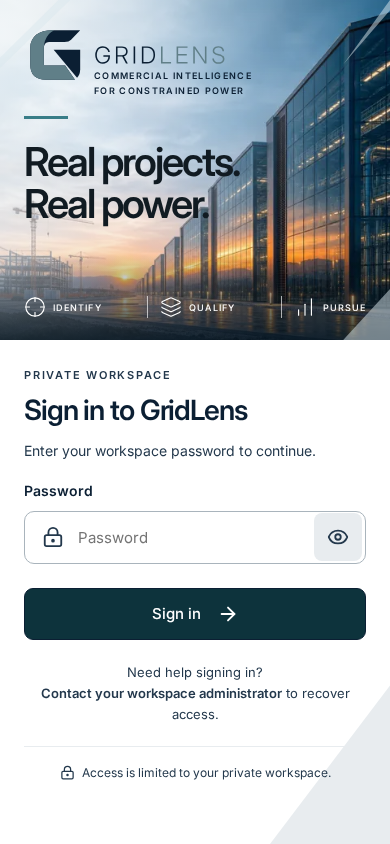
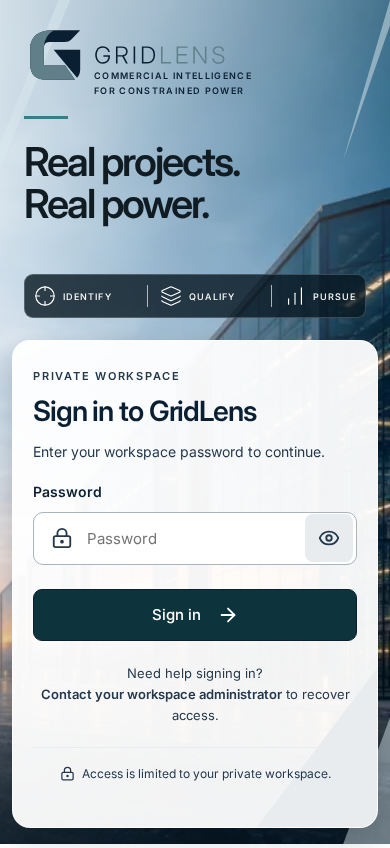
feat: extend architectural background across mobile sign-in

diff --git a/web/src/features/auth/login.css b/web/src/features/auth/login.css
@@ -38,18 +38,19 @@
 .login-page button:focus-visible,.login-page input:focus-visible{outline:3px solid var(--gl-focus);outline-offset:3px}
 @media(min-width:641px) and (max-width:1000px){.login-page{grid-template-columns:minmax(0,48fr) minmax(0,52fr)}.login-story-content{padding:48px 28px}.login-tagline{font-size:9px;letter-spacing:.13em}.login-story h2{font-size:48px}.login-stages{gap:14px;flex-direction:column}.login-stages li+li{padding-left:0;border:0}.login-panel{padding:44px 28px}}
 @media(max-width:640px){
-  .login-page{grid-template-columns:minmax(0,1fr);grid-template-rows:auto 1fr}
+  .login-page{position:relative;grid-template-columns:minmax(0,1fr);grid-template-rows:auto 1fr;padding-bottom:16px}
+  .login-story{position:static;overflow:visible}
   .login-story-content{min-height:340px;padding:24px 24px 22px}
   .login-story-logo{max-width:260px}
   .login-tagline{margin-left:70px;margin-top:-17px;font-size:9px;letter-spacing:.15em}
   .login-accent{margin:18px 0 22px;width:44px;height:3px}
   .login-story h2{font-size:40px;letter-spacing:-.05em;line-height:1.05}
-  .login-architecture img{object-position:center 65%}
-  .login-stages{padding:44px 0 0;gap:10px}
+  .login-architecture img{object-position:right 65%}
+  .login-stages{margin-top:auto;padding:10px 9px;gap:10px;border:1px solid rgba(255,255,255,.2);border-radius:9px;background:rgba(6,22,33,.8)}
   .login-stages li{gap:7px;font-size:9px;letter-spacing:.12em}
   .login-stages li+li{padding-left:12px}
   .login-stages svg{width:22px;height:22px}
-  .login-panel{align-items:flex-start;padding:28px 24px 36px}
+  .login-panel{z-index:2;align-items:flex-start;margin:0 12px;padding:28px 20px 30px;border:1px solid rgba(255,255,255,.75);border-radius:18px;background:rgba(255,255,255,.95);box-shadow:0 12px 32px rgba(6,22,33,.18)}
   .login-panel-inner{gap:12px}
   .login-panel h1{font-size:28px}
   .login-form{margin-top:8px}
@@ -62,11 +63,11 @@
   .login-story-logo{max-width:240px}
   .login-tagline{margin-left:65px;font-size:8px}
   .login-story h2{font-size:36px}
-  .login-stages{gap:6px;padding-top:34px}
+  .login-stages{gap:6px;padding:10px 7px}
   .login-stages li{font-size:8px;gap:5px}
   .login-stages li+li{padding-left:8px}
   .login-stages svg{width:20px;height:20px}
-  .login-panel{padding-left:20px;padding-right:20px}
+  .login-panel{padding-left:16px;padding-right:16px}
 }
 
 .login-input-wrap:focus-within{outline:3px solid var(--gl-focus);outline-offset:3px}

diff --git a/docs/delivery/sign-in/verification.md b/docs/delivery/sign-in/verification.md
@@ -45,3 +45,7 @@ Browser-rendered final 1280px initial sign-in check: logo and background decoded
 ## Mobile desktop-style refinement
 
 Owner-requested follow-up: architectural hero and desktop branding retained on phones. Login suite: **14 passed**, 17.5 seconds. The keyboard test now verifies visible imagery/footer, exactly one optimized mobile image request, and a submit button within the 390×844 viewport. Prior no-image mobile evidence is superseded. Desktop 1280/1440 and tablet 768 captures are pixel-identical to the prior committed screenshots. Current PR CI remains the final-head gate.
+
+## Full mobile background verification
+
+CSS-only follow-up: **14 login checks passed (12.5 seconds)**, including initial submit visibility, image selection, keyboard and error behavior. Typecheck and production build passed. Desktop 1280/1440 and tablet 768 pixel comparisons are unchanged. Current-head CI is tracked in PR194.

diff --git a/docs/delivery/sign-in/independent-review.md b/docs/delivery/sign-in/independent-review.md
@@ -47,3 +47,7 @@ Astra inspected the final 390/320 and 1280 captures and the scoped diff: **PASS,
 Independent command: `GRIDLENS_LOGIN_WEB_PORT=5188 npm run test:login -- --output=/tmp/gl3-astra-mobile-desktop --reporter=list` — **14 passed, 13.3 seconds**. Astra confirmed the initial-viewport assertion runs before Tab focus can scroll the page. Mobile asset 480×600 / 31,662 bytes verified. `git diff --check` passed.
 
[1 lines of base64/hex data omitted]
+
+## Full mobile background review
+
[1 lines of base64/hex data omitted]

diff --git a/docs/delivery/sign-in/visual-review.md b/docs/delivery/sign-in/visual-review.md
@@ -19,3 +19,7 @@ Residual: exact source-photo match and metallic rendering are not claimed. The s
 ## Mobile refinement
 
 At the owner’s request, the phone view now carries the desktop architectural scene, two-line headline, diagonal overlays and icon footer above the white form. Reviewed fresh 390×844 and 320×568 captures. The 390px submit remains above the fold; 320px scrolls vertically. This supersedes the original compact image-free phone treatment.
+
+## Full mobile background follow-up
+
+The owner requested the cool background. The same optimized architectural image now spans the entire phone page, with a translucent white sign-in card, diagonal overlays and a dark stage strip that preserves icon/text contrast. Reviewed fresh 390/320 captures; desktop/tablet screenshots remain pixel-identical. No authentication changes.
